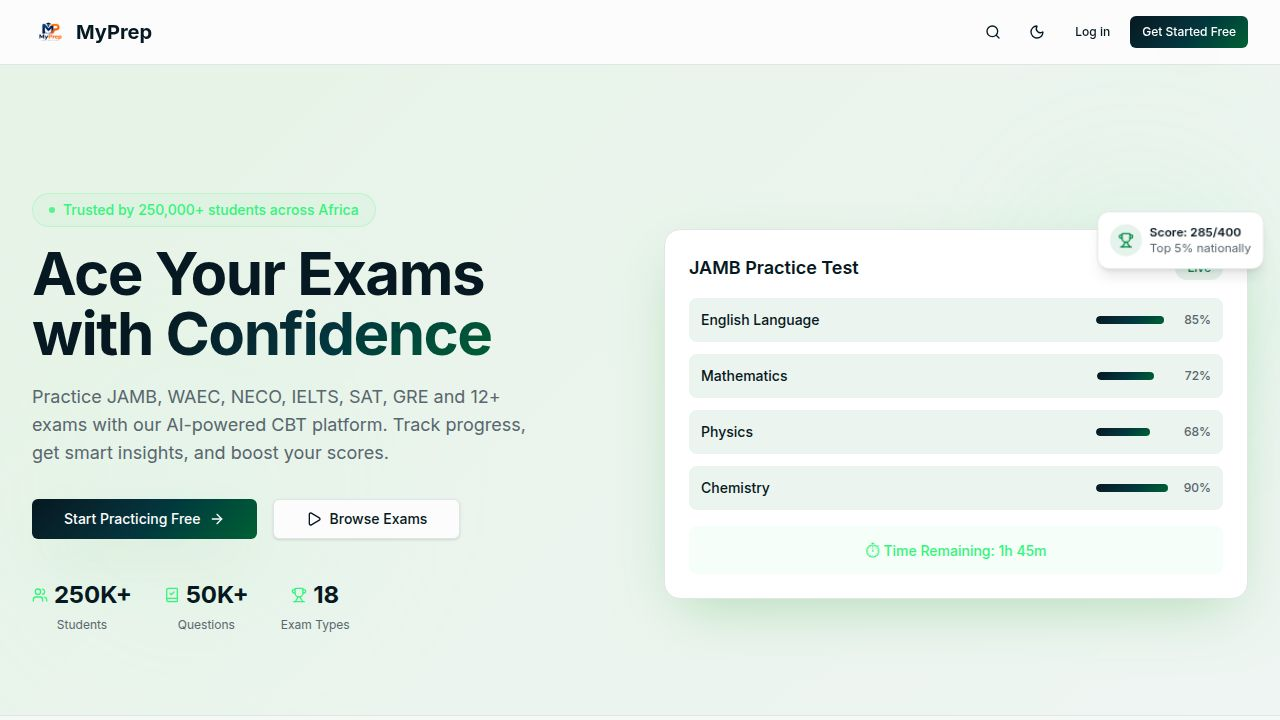
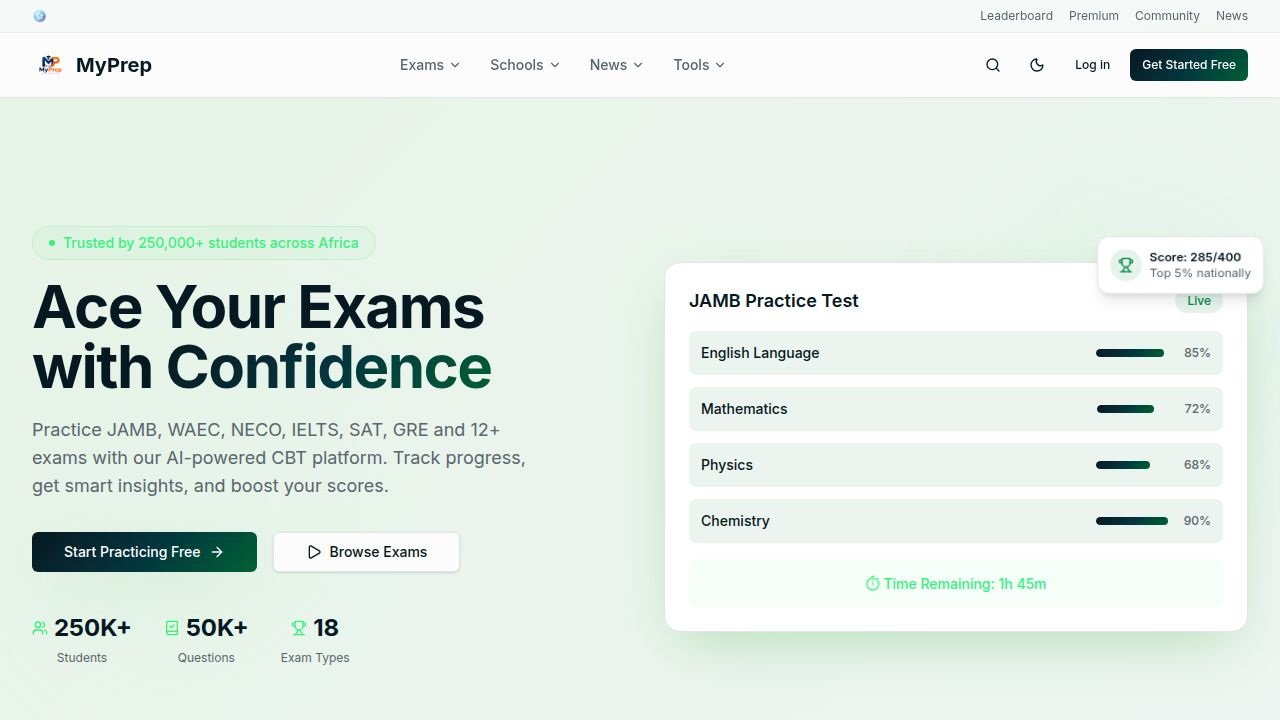
Rename MyPrep → Elite Tutor + fix @user/history vulnerability
Task: Fix @user/history@1.161.6 critical vulnerability (MAL-2026-3463)
- Added `@user/history: 1.162.0` override to pnpm-workspace.yaml
- Ran `pnpm install` to apply the override; lockfile now pins 1.162.0

User request: Rename entire platform from "MyPrep" to "Elite Tutor"
Files updated:
- index.html — title, meta description, og/twitter tags
- useSiteSettings.tsx — DEFAULTS brand_name, contact_email, copyright_text;
  added migration shim to remap legacy "MyPrep" DB value → "Elite Tutor" at
  read time (since Supabase RLS blocks anon PATCH on site_settings)
- useTheme.tsx — localStorage key elitetutor-theme
- SiteAnnouncementBanner.tsx — localStorage key elitetutor-dismissed-announcements
- AIChatWidget.tsx — "MyPrep AI" → "Elite Tutor AI"
- CTASection.tsx — brand mention in CTA text
- BulkQuestionImporter.tsx — CSV download filename
- login.tsx — brand logo alt, brand name display, copyright
- signup.tsx — brand logo alt, brand name display, copyright, toast, newsletter text
- welcome.tsx — "Welcome to Elite Tutor" onboarding heading
- admin.tsx — admin panel subtitle
- pricing.tsx — premium plan description
- profile.tsx — "your Elite Tutor ID"
- portal.agent.tsx — referral URL domain
- sat.tsx — brand mention in tips and CTA
- cbt-centers.tsx — brand mention in tips
- terms.tsx — all MyPrep references (replace_all)
- privacy.tsx — all MyPrep references (replace_all)
- replit.md — project title
[…]

diff --git a/artifacts/myprep/src/routes/terms.tsx b/artifacts/myprep/src/routes/terms.tsx
@@ -20,12 +20,12 @@ function TermsPage() {
 
       <div className="prose prose-neutral dark:prose-invert max-w-none space-y-8 text-sm leading-relaxed text-foreground">
         <Section title="1. Acceptance of Terms">
-          <p>By accessing or using MyPrep ("the Platform", "we", "our", "us"), you agree to be bound by these Terms &amp; Conditions and all applicable laws and regulations. If you do not agree with any part of these terms, you may not use our Platform.</p>
+          <p>By accessing or using Elite Tutor ("the Platform", "we", "our", "us"), you agree to be bound by these Terms &amp; Conditions and all applicable laws and regulations. If you do not agree with any part of these terms, you may not use our Platform.</p>
           <p>These terms apply to all visitors, users, students, and any other persons who access or use our services.</p>
         </Section>
 
         <Section title="2. Description of Service">
-          <p>MyPrep is Africa's leading exam preparation platform providing:</p>
+          <p>Elite Tutor is Africa's leading exam preparation platform providing:</p>
           <ul>
             <li>Computer-Based Test (CBT) practice for JAMB, WAEC, NECO, IELTS, SAT, GRE and other examinations</li>
             <li>AI-powered explanations and study assistance</li>
@@ -39,7 +39,7 @@ function TermsPage() {
 
         <Section title="3. User Accounts">
           <p><strong>Registration:</strong> To access certain features, you must register for an account. You agree to provide accurate, current, and complete information during registration and to update such information to keep it accurate, current, and complete.</p>
-          <p><strong>Account Security:</strong> You are responsible for maintaining the confidentiality of your account credentials and for all activities that occur under your account. You must immediately notify MyPrep of any unauthorized use of your account.</p>
+          <p><strong>Account Security:</strong> You are responsible for maintaining the confidentiality of your account credentials and for all activities that occur under your account. You must immediately notify Elite Tutor of any unauthorized use of your account.</p>
           <p><strong>Age Requirement:</strong> Users must be at least 13 years old. Users between 13 and 18 must have parental consent. By registering, you represent that you meet these requirements.</p>
           <p><strong>One Account Per User:</strong> Each person may maintain only one active account. Creating multiple accounts may result in termination of all accounts.</p>
         </Section>
@@ -67,13 +67,13 @@ function TermsPage() {
         </Section>
 
         <Section title="6. Intellectual Property">
-          <p>All content on the Platform, including but not limited to text, graphics, logos, images, audio clips, video clips, question banks, and software, is the property of MyPrep or its content suppliers and is protected by Nigerian and international intellectual property laws.</p>
+          <p>All content on the Platform, including but not limited to text, graphics, logos, images, audio clips, video clips, question banks, and software, is the property of Elite Tutor or its content suppliers and is protected by Nigerian and international intellectual property laws.</p>
           <p>Past examination questions may be sourced from publicly available materials and examination bodies including JAMB, WAEC, NECO, and others. We respect the intellectual property rights of these organizations.</p>
-          <p>User-generated content (community posts, discussions) remains the property of the respective users. By posting content, you grant MyPrep a non-exclusive, royalty-free license to use, display, and distribute such content on the Platform.</p>
+          <p>User-generated content (community posts, discussions) remains the property of the respective users. By posting content, you grant Elite Tutor a non-exclusive, royalty-free license to use, display, and distribute such content on the Platform.</p>
         </Section>
 
         <Section title="7. AI-Powered Features">
-          <p>MyPrep uses artificial intelligence to provide explanations, study assistance, and personalized learning recommendations. Please note:</p>
+          <p>Elite Tutor uses artificial intelligence to provide explanations, study assistance, and personalized learning recommendations. Please note:</p>
           <ul>
             <li>AI-generated content is for educational assistance only and should not be taken as definitive answers</li>
             <li>Always verify important information with official sources and qualified educators</li>
@@ -87,7 +87,7 @@ function TermsPage() {
         </Section>
 
         <Section title="9. Disclaimer of Warranties">
-          <p>The Platform is provided on an "as is" and "as available" basis without warranties of any kind, either express or implied. MyPrep does not warrant that:</p>
+          <p>The Platform is provided on an "as is" and "as available" basis without warranties of any kind, either express or implied. Elite Tutor does not warrant that:</p>
           <ul>
             <li>The Platform will be uninterrupted, secure, or error-free</li>
             <li>Results obtained from using the Platform will be accurate or reliable</li>
@@ -98,7 +98,7 @@ function TermsPage() {
         </Section>
 
         <Section title="10. Limitation of Liability">
-          <p>To the maximum extent permitted by applicable law, MyPrep shall not be liable for any indirect, incidental, special, consequential, or punitive damages, including but not limited to loss of profits, data, or goodwill, arising out of or in connection with your use of the Platform.</p>
+          <p>To the maximum extent permitted by applicable law, Elite Tutor shall not be liable for any indirect, incidental, special, consequential, or punitive damages, including but not limited to loss of profits, data, or goodwill, arising out of or in connection with your use of the Platform.</p>
           <p>Our total liability to you for any claim arising from these Terms or your use of the Platform shall not exceed the amount you paid to us in the 12 months preceding the claim.</p>
         </Section>
 
@@ -119,14 +119,14 @@ function TermsPage() {
         <Section title="14. Contact Us">
           <p>If you have questions about these Terms, please contact us:</p>
           <ul>
-            <li><strong>Email:</strong> [email redacted]</li>
-            <li><strong>Address:</strong> MyPrep, Lagos, Nigeria</li>
+            <li><strong>Email:</strong> [email redacted]</li>
+            <li><strong>Address:</strong> Elite Tutor, Lagos, Nigeria</li>
           </ul>
         </Section>
       </div>
 
       <div className="mt-10 rounded-xl border border-border bg-secondary/30 p-5 text-center">
-        <p className="text-sm text-muted-foreground">By using MyPrep, you acknowledge that you have read, understood, and agree to be bound by these Terms &amp; Conditions.</p>
+        <p className="text-sm text-muted-foreground">By using Elite Tutor, you acknowledge that you have read, understood, and agree to be bound by these Terms &amp; Conditions.</p>
         <div className="mt-3 flex justify-center gap-3">
           <Link to="/privacy" className="text-sm text-primary hover:underline">Privacy Policy</Link>
           <span className="text-muted-foreground">·</span>

diff --git a/artifacts/myprep/src/routes/signup.tsx b/artifacts/myprep/src/routes/signup.tsx
@@ -76,7 +76,7 @@ function SignupPage() {
       }
     } catch { /* non-blocking */ }
     setLoading(false);
-    toast.success("Account created! Welcome to MyPrep.");
+    toast.success("Account created! Welcome to Elite Tutor.");
     navigate({ to: "/welcome" });
   };
 
@@ -89,8 +89,8 @@ function SignupPage() {
 
         <div className="relative">
           <Link to="/" className="flex items-center gap-3">
-            <img src={myprepLogo} alt="MyPrep" className="h-10 w-10 rounded-xl" />
-            <span className="font-display text-2xl font-bold">MyPrep</span>
+            <img src={myprepLogo} alt="Elite Tutor" className="h-10 w-10 rounded-xl" />
+            <span className="font-display text-2xl font-bold">Elite Tutor</span>
           </Link>
         </div>
 
@@ -115,13 +115,13 @@ function SignupPage() {
           </div>
 
           <div className="rounded-2xl bg-white/10 p-5 backdrop-blur-sm">
-            <p className="text-sm italic text-white/80">"MyPrep helped me score 312 in JAMB. The practice questions are exactly like the real exam!"</p>
+            <p className="text-sm italic text-white/80">"Elite Tutor helped me score 312 in JAMB. The practice questions are exactly like the real exam!"</p>
             <p className="mt-3 text-xs font-semibold text-green-300">— Chinedu O., University of Lagos (2024)</p>
           </div>
         </div>
 
         <div className="relative">
-          <p className="text-xs text-white/40">© {new Date().getFullYear()} MyPrep. All rights reserved.</p>
+          <p className="text-xs text-white/40">© {new Date().getFullYear()} Elite Tutor. All rights reserved.</p>
         </div>
       </div>
 
@@ -130,8 +130,8 @@ function SignupPage() {
         <div className="w-full max-w-md">
           {/* Mobile logo */}
           <Link to="/" className="flex items-center justify-center gap-2 mb-8 lg:hidden">
-            <img src={myprepLogo} alt="MyPrep" className="h-9 w-9 rounded-lg" />
-            <span className="font-display text-xl font-bold">MyPrep</span>
+            <img src={myprepLogo} alt="Elite Tutor" className="h-9 w-9 rounded-lg" />
+            <span className="font-display text-xl font-bold">Elite Tutor</span>
           </Link>
 
           {/* Progress indicator */}
@@ -228,7 +228,7 @@ function SignupPage() {
                     className="mt-0.5 accent-primary"
                   />
                   <label htmlFor="newsletter" className="text-xs text-muted-foreground cursor-pointer">
-                    Subscribe to MyPrep updates — exam tips, news, and study resources. Unsubscribe anytime.
+                    Subscribe to Elite Tutor updates — exam tips, news, and study resources. Unsubscribe anytime.
                   </label>
                 </div>
 

diff --git a/artifacts/myprep/src/hooks/useSiteSettings.tsx b/artifacts/myprep/src/hooks/useSiteSettings.tsx
@@ -32,10 +32,10 @@ export type FooterLink = {
 
 const DEFAULTS: SiteSettings = {
   id: "",
-  brand_name: "MyPrep",
+  brand_name: "Elite Tutor",
   tagline: "Africa's leading exam prep platform",
   logo_url: null,
-  contact_email: "[email redacted]",
+  contact_email: "[email redacted]",
   contact_phone: "[phone redacted]",
   contact_address: "Lagos, Nigeria",
   social_facebook: "",
@@ -45,7 +45,7 @@ const DEFAULTS: SiteSettings = {
   social_linkedin: "",
   social_whatsapp: "",
   footer_about: "Africa's leading exam prep platform.",
-  copyright_text: "© MyPrep. All rights reserved.",
+  copyright_text: "© Elite Tutor. All rights reserved.",
   legal_tagline: "Made with ❤️ for African students.",
   header_announcement: "",
 };
@@ -59,7 +59,14 @@ export function useSiteSettings() {
       supabase.from("site_settings").select("*").limit(1).maybeSingle(),
       supabase.from("footer_links").select("*").eq("visible", true).order("sort_order"),
     ]);
-    if (s) setSettings(s as SiteSettings);
+    if (s) {
+      const row = s as SiteSettings;
+      // Migrate legacy brand name
+      if (row.brand_name === "MyPrep") row.brand_name = "Elite Tutor";
+      if (row.copyright_text?.includes("MyPrep"))
+        row.copyright_text = row.copyright_text.replace(/MyPrep/g, "Elite Tutor");
+      setSettings({ ...DEFAULTS, ...row });
+    }
     setFooterLinks((f ?? []) as FooterLink[]);
   };
 

diff --git a/artifacts/myprep/src/routes/privacy.tsx b/artifacts/myprep/src/routes/privacy.tsx
@@ -21,7 +21,7 @@ function PrivacyPage() {
       <div className="space-y-6 text-sm text-foreground">
         <div className="rounded-xl border border-primary/20 bg-primary/5 p-5">
           <p className="font-medium text-primary">Your privacy matters to us</p>
-          <p className="mt-1 text-sm text-muted-foreground">This Privacy Policy explains how MyPrep collects, uses, shares, and protects your personal information when you use our platform. We are committed to being transparent about our data practices.</p>
+          <p className="mt-1 text-sm text-muted-foreground">This Privacy Policy explains how Elite Tutor collects, uses, shares, and protects your personal information when you use our platform. We are committed to being transparent about our data practices.</p>
         </div>
 
         <Section title="1. Information We Collect">
@@ -59,7 +59,7 @@ function PrivacyPage() {
             Trusted third-party companies that help us operate the Platform, including cloud hosting (Supabase), payment processors, email service providers, and AI service providers. These partners are contractually obligated to protect your data.
           </SubSection>
           <SubSection title="Legal Requirements">
-            We may disclose your information if required by law, court order, or governmental authority, or to protect the rights, property, or safety of MyPrep, our users, or others.
+            We may disclose your information if required by law, court order, or governmental authority, or to protect the rights, property, or safety of Elite Tutor, our users, or others.
           </SubSection>
           <SubSection title="Business Transfers">
             In the event of a merger, acquisition, or sale of all or a portion of our assets, your information may be transferred as part of that transaction.
@@ -98,12 +98,12 @@ function PrivacyPage() {
           <SubSection title="Deletion">You can request deletion of your account and associated data. Note that some data may be retained for legal or legitimate business purposes.</SubSection>
           <SubSection title="Data Portability">You can request a copy of your data in a structured, commonly used format.</SubSection>
           <SubSection title="Opt-out">You can opt out of marketing communications at any time by clicking "unsubscribe" in emails or contacting us directly.</SubSection>
-          <p className="mt-3 text-muted-foreground">To exercise these rights, please contact us at [email redacted].</p>
+          <p className="mt-3 text-muted-foreground">To exercise these rights, please contact us at [email redacted].</p>
         </Section>
 
         <Section title="7. Children's Privacy">
           <p className="text-muted-foreground">Our Platform is intended for users aged 13 and above. Users between 13 and 18 should have parental consent. We do not knowingly collect personal information from children under 13. If we discover we have inadvertently collected information from a child under 13, we will promptly delete it.</p>
-          <p className="mt-2 text-muted-foreground">Parents or guardians who believe their child under 13 has provided us with personal information should contact us at [email redacted].</p>
+          <p className="mt-2 text-muted-foreground">Parents or guardians who believe their child under 13 has provided us with personal information should contact us at [email redacted].</p>
         </Section>
 
         <Section title="8. Data Retention">
@@ -126,15 +126,15 @@ function PrivacyPage() {
         <Section title="11. Contact Us">
           <p className="text-muted-foreground">If you have questions, concerns, or requests regarding this Privacy Policy or your personal data, please contact our Data Protection team:</p>
           <div className="mt-3 space-y-1 text-muted-foreground">
-            <p><strong className="text-foreground">Email:</strong> [email redacted]</p>
-            <p><strong className="text-foreground">Address:</strong> MyPrep Data Protection Team, Lagos, Nigeria</p>
+            <p><strong className="text-foreground">Email:</strong> [email redacted]</p>
+            <p><strong className="text-foreground">Address:</strong> Elite Tutor Data Protection Team, Lagos, Nigeria</p>
             <p><strong className="text-foreground">Response time:</strong> We aim to respond to all privacy requests within 30 days.</p>
           </div>
         </Section>
       </div>
 
       <div className="mt-10 rounded-xl border border-border bg-secondary/30 p-5 text-center">
-        <p className="text-sm text-muted-foreground">By using MyPrep, you acknowledge that you have read and understood this Privacy Policy.</p>
+        <p className="text-sm text-muted-foreground">By using Elite Tutor, you acknowledge that you have read and understood this Privacy Policy.</p>
         <div className="mt-3 flex justify-center gap-3">
           <Link to="/terms" className="text-sm text-primary hover:underline">Terms &amp; Conditions</Link>
           <span className="text-muted-foreground">·</span>

diff --git a/artifacts/myprep/index.html b/artifacts/myprep/index.html
@@ -3,15 +3,15 @@
   <head>
     <meta charset="UTF-8" />
     <meta name="viewport" content="width=device-width, initial-scale=1.0, maximum-scale=1" />
-    <title>MyPrep</title>
-    <meta name="description" content="MyPrep — built on Replit. Update this description to reflect the app." />
+    <title>Elite Tutor</title>
+    <meta name="description" content="Elite Tutor — Africa's leading exam preparation platform for JAMB, WAEC, NECO, IELTS, SAT, GRE and more." />
     <meta name="robots" content="index, follow" />
-    <meta property="og:title" content="MyPrep" />
-    <meta property="og:description" content="MyPrep — built on Replit. Update this description to reflect the app." />
+    <meta property="og:title" content="Elite Tutor" />
+    <meta property="og:description" content="Elite Tutor — Africa's leading exam preparation platform for JAMB, WAEC, NECO, IELTS, SAT, GRE and more." />
     <meta property="og:type" content="website" />
     <meta name="twitter:card" content="summary_large_image" />
-    <meta name="twitter:title" content="MyPrep" />
-    <meta name="twitter:description" content="MyPrep — built on Replit. Update this description to reflect the app." />
+    <meta name="twitter:title" content="Elite Tutor" />
+    <meta name="twitter:description" content="Elite Tutor — Africa's leading exam preparation platform for JAMB, WAEC, NECO, IELTS, SAT, GRE and more." />
     <link rel="icon" type="image/svg+xml" href="/favicon.svg" />
     <link rel="preconnect" href="https://fonts.googleapis.com">
     <link rel="preconnect" href="https://fonts.gstatic.com" crossorigin>

diff --git a/artifacts/myprep/src/routes/login.tsx b/artifacts/myprep/src/routes/login.tsx
@@ -74,8 +74,8 @@ function LoginPage() {
 
         <div className="relative">
           <Link to="/" className="flex items-center gap-3">
-            <img src={myprepLogo} alt="MyPrep" className="h-10 w-10 rounded-xl" />
-            <span className="font-display text-2xl font-bold">MyPrep</span>
+            <img src={myprepLogo} alt="Elite Tutor" className="h-10 w-10 rounded-xl" />
+            <span className="font-display text-2xl font-bold">Elite Tutor</span>
           </Link>
         </div>
 
@@ -116,7 +116,7 @@ function LoginPage() {
         </div>
 
         <div className="relative">
-          <p className="text-xs text-white/40">© {new Date().getFullYear()} MyPrep. All rights reserved.</p>
+          <p className="text-xs text-white/40">© {new Date().getFullYear()} Elite Tutor. All rights reserved.</p>
         </div>
       </div>
 
@@ -125,8 +125,8 @@ function LoginPage() {
         <div className="w-full max-w-md">
           {/* Mobile logo */}
           <Link to="/" className="flex items-center justify-center gap-2 mb-8 lg:hidden">
-            <img src={myprepLogo} alt="MyPrep" className="h-9 w-9 rounded-lg" />
-            <span className="font-display text-xl font-bold">MyPrep</span>
+            <img src={myprepLogo} alt="Elite Tutor" className="h-9 w-9 rounded-lg" />
+            <span className="font-display text-xl font-bold">Elite Tutor</span>
           </Link>
 
           {forgotMode ? (

diff --git a/artifacts/myprep/src/components/AIChatWidget.tsx b/artifacts/myprep/src/components/AIChatWidget.tsx
@@ -174,7 +174,7 @@ export function AIChatWidget({ context, openSignal, starterPrompt }: Props) {
                   <Sparkles className="h-4 w-4" />
                 </div>
                 <div>
-                  <p className="font-display text-sm font-semibold leading-tight">MyPrep AI</p>
+                  <p className="font-display text-sm font-semibold leading-tight">Elite Tutor AI</p>
                   <p className="text-[11px] opacity-90">Your study coach</p>
                 </div>
               </div>
@@ -196,7 +196,7 @@ export function AIChatWidget({ context, openSignal, starterPrompt }: Props) {
                   <div className="flex h-12 w-12 items-center justify-center rounded-2xl bg-primary/10 text-primary">
                     <Sparkles className="h-6 w-6" />
                   </div>
-                  <p className="mt-3 font-display text-base font-semibold">Hi, I'm MyPrep AI 👋</p>
+                  <p className="mt-3 font-display text-base font-semibold">Hi, I'm Elite Tutor AI 👋</p>
                   <p className="mt-1 text-xs text-muted-foreground">Ask me to explain a topic, predict subjects for your course, plan your week, or break down a past question.</p>
                   <div className="mt-4 flex flex-wrap justify-center gap-2">
                     {[

diff --git a/artifacts/myprep/src/routes/sat.tsx b/artifacts/myprep/src/routes/sat.tsx
@@ -37,7 +37,7 @@ const SCORE_BANDS = [
 const TIPS = [
   { icon: Brain, title: "Understand the Format", desc: "The digital SAT is adaptive — each module's difficulty adjusts based on your performance in the previous module." },
   { icon: Clock, title: "Time Management", desc: "Practice pacing: ~1.2 min per Reading/Writing question and ~1.6 min per Math question." },
-  { icon: Target, title: "Focus on Weaknesses", desc: "Use MyPrep's analytics to identify your weak areas and target those topics in your study sessions." },
+  { icon: Target, title: "Focus on Weaknesses", desc: "Use Elite Tutor's analytics to identify your weak areas and target those topics in your study sessions." },
   { icon: TrendingUp, title: "Practice Daily", desc: "Consistent daily practice (45-60 minutes) for 2-3 months is more effective than cramming." },
   { icon: Calculator, title: "Math Strategy", desc: "Many Math questions can be solved by plugging answer choices or using estimation instead of complex algebra." },
   { icon: BookOpen, title: "Read Actively", desc: "Practice active reading — identify the main idea, author's purpose, and evidence for claims as you read." },
@@ -175,7 +175,7 @@ export default function SatPage() {
       <div className="rounded-2xl bg-gradient-to-br from-primary via-primary/90 to-accent/80 p-8 text-center text-white">
         <Award className="mx-auto h-12 w-12 mb-4 opacity-90" />
         <h2 className="font-display text-2xl font-bold">Ready to Ace the SAT?</h2>
-        <p className="mt-2 text-white/80">Join thousands of students who improved their scores with MyPrep's SAT practice materials and AI-powered study tools.</p>
+        <p className="mt-2 text-white/80">Join thousands of students who improved their scores with Elite Tutor's SAT practice materials and AI-powered study tools.</p>
         <div className="mt-6 flex flex-wrap justify-center gap-3">
           <Link to="/signup"><Button size="lg" className="bg-white text-primary hover:bg-white/90 font-semibold">Create Free Account <ArrowRight className="h-4 w-4 ml-2" /></Button></Link>
           <Link to="/pricing"><Button size="lg" variant="outline" className="border-white text-white hover:bg-white/10">View Premium Plans</Button></Link>

diff --git a/artifacts/myprep/src/components/SiteAnnouncementBanner.tsx b/artifacts/myprep/src/components/SiteAnnouncementBanner.tsx
@@ -11,7 +11,7 @@ type Announcement = {
   expires_at: string | null;
 };
 
-const STORAGE_KEY = "myprep-dismissed-announcements";
+const STORAGE_KEY = "elitetutor-dismissed-announcements";
 
 const TYPE_STYLES: Record<string, { wrap: string; Icon: typeof Info }> = {
   info:    { wrap: "bg-primary text-primary-foreground",       Icon: Info },

diff --git a/artifacts/myprep/src/components/admin/BulkQuestionImporter.tsx b/artifacts/myprep/src/components/admin/BulkQuestionImporter.tsx
@@ -476,7 +476,7 @@ export function BulkQuestionImporter({ onDone }: { onDone?: () => void }) {
                 const url = URL.createObjectURL(new Blob([csv], { type: "text/csv" }));
                 const a = document.createElement("a");
                 a.href = url;
-                a.download = "myprep-questions-template.csv";
+                a.download = "elitetutor-questions-template.csv";
                 a.click();
                 URL.revokeObjectURL(url);
               }}

diff --git a/artifacts/myprep/src/components/landing/CTASection.tsx b/artifacts/myprep/src/components/landing/CTASection.tsx
@@ -12,7 +12,7 @@ export function CTASection() {
             Ready to Crush Your Next Exam?
           </h2>
           <p className="mx-auto mt-4 max-w-md text-white/80">
-            Join 250,000+ students already preparing smarter with MyPrep. It's free to get started.
+            Join 250,000+ students already preparing smarter with Elite Tutor. It's free to get started.
           </p>
           <div className="mt-8 flex flex-wrap justify-center gap-4">
             <Link to="/signup">

diff --git a/artifacts/myprep/src/hooks/useTheme.tsx b/artifacts/myprep/src/hooks/useTheme.tsx
@@ -4,7 +4,7 @@ type Theme = "light" | "dark";
 type Ctx = { theme: Theme; toggle: () => void; setTheme: (t: Theme) => void };
 
 const ThemeContext = createContext<Ctx | undefined>(undefined);
-const STORAGE_KEY = "myprep-theme";
+const STORAGE_KEY = "elitetutor-theme";
 
 function applyTheme(t: Theme) {
   if (typeof document === "undefined") return;